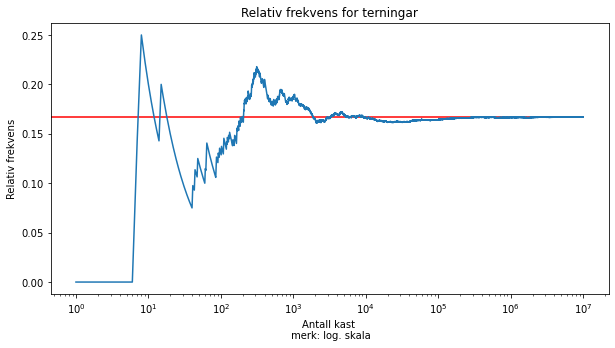
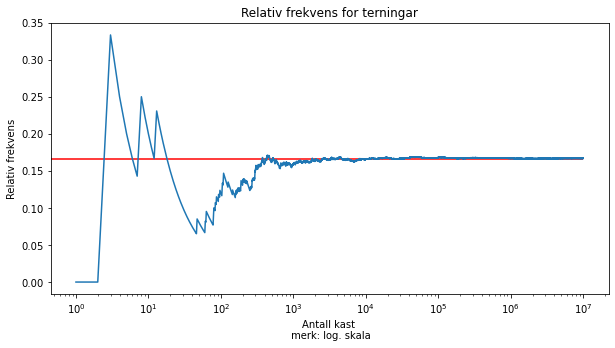
Update documentation

diff --git a/searchindex.js b/searchindex.js
@@ -1,1 +1,1 @@
-Search.setIndex({docnames:["README","S1/Kombinatorikk","S1/eksamen-V21","S1/hypergeometrisk-og-binomisk","S1/kortp\u00e5gata","S1/litenstraight","S1/oppg\u00e5ver","S1/samansettefors\u00f8k","S1/simuleringS1","S1/terningar","S1/utfordringar","S2/f\u00f8lgerogrekker","generelt/intro-importering","generelt/jupyter-lab","index"],envversion:{"sphinx.domains.c":2,"sphinx.domains.changeset":1,"sphinx.domains.citation":1,"sphinx.domains.cpp":5,"sphinx.domains.index":1,"sphinx.domains.javascript":2,"sphinx.domains.math":2,"sphinx.domains.python":3,"sphinx.domains.rst":2,"sphinx.domains.std":2,"sphinx.ext.intersphinx":1,sphinx:56},filenames:["README.md","S1/Kombinatorikk.ipynb","S1/eksamen-V21.ipynb","S1/hypergeometrisk-og-binomisk.ipynb","S1/kortp\u00e5gata.ipynb","S1/litenstraight.ipynb","S1/oppg\u00e5ver.md","S1/samansettefors\u00f8k.ipynb","S1/simuleringS1.md","S1/terningar.ipynb","S1/utfordringar.md","S2/f\u00f8lgerogrekker.ipynb","generelt/intro-importering.ipynb","generelt/jupyter-lab.md","index.md"],objects:{},objnames:{},objtypes:{},terms:{"0":[2,7,9],"000284":7,"000291":[],"000476":7,"000491":[],"000518":[],"000754":[],"023":[],"024":2,"028":[],"058":[],"061":2,"062":2,"1":[1,6,7,10,12],"10":[1,7,9],"100":7,"10000":[],"1000000":[2,7,9],"10000000":9,"10x5":9,"12":2,"120":1,"125":1,"14":9,"167":9,"187947468":7,"19":2,"2":[1,6,7,10,12],"20":[1,2],"2021":[],"2283635696":[],"24":9,"2432902008176640000":1,"3":[1,2,7,9,10,12],"3049":[],"3050":[],"3051":[],"3052":[],"3053":[],"333":9,"334":[],"3494704870":[],"36":9,"4":[2,7,9,10,12],"42":7,"444":9,"445":9,"465913":[],"466383":7,"466971":[],"467":7,"489482":[],"489524":7,"489709":[],"489772":[],"49":7,"490":7,"490147":[],"5":[1,7,9,10,12],"50":9,"6":[2,7,9,12],"60":1,"7":[7,9],"73":[],"74":[],"75":[],"76":[],"77":[],"8":9,"84":[],"85":[],"86":[],"87":[],"88":[],"9":[7,9],"90":7,"\u00e5":[1,4,7,8,9,10,12,13,14],"\u00f2g":1,"alts\u00e5":[10,12],"b\u00e5de":[1,7,12],"b\u00f8r":13,"d\u00e5":[1,7],"d\u00f8me":[2,7,9,12,14],"d\u00f8met":[7,9],"eksamensoppg\u00e5v":8,"eksamensoppg\u00e5va":2,"f\u00e5r":[1,7,13],"f\u00f8lg":13,"f\u00f8lger":14,"f\u00f8lgjand":[8,12],"f\u00f8r":[4,10],"f\u00f8rst":[7,13],"fors\u00f8k":[8,9],"fr\u00e5":[1,2,4,7,9,10,12,13,14],"g\u00e5r":[4,10],"gjennomf\u00f8r":9,"h\u00f8gare":9,"h\u00f8gre":[2,8],"import":[1,2,7,9,12],"int":7,"k\u00f8yra":7,"l\u00f8kka":7,"l\u00f8kke":2,"l\u00f8kker":[1,9],"l\u00f8ysast":2,"l\u00f8yse":[6,10],"l\u00f8ysingsforslaget":10,"l\u00f8yst":[2,8],"m\u00e5":[4,10,13],"m\u00e5l":9,"m\u00e5tar":[1,9],"m\u00e5te":7,"m\u00e5ten":[1,9],"n\u00e5r":[1,7,9,12,13],"n\u00e6rare":9,"n\u00f8dvendigvi":7,"n\u00f8yaktig":[1,7],"oppg\u00e5v":6,"oppg\u00e5va":7,"p\u00e5":[1,2,7,8,9,12,13,14],"pr\u00f8v":4,"pr\u00f8va":[8,10],"pr\u00f8vd":10,"rekkef\u00f8lgen":1,"return":[],"s\u00e5":[7,8,9],"s\u00e5kalla":12,"s\u00f8k":13,"s\u00f8ka":13,"sj\u00e5":[7,8,10,13],"sj\u00f8lv":10,"sj\u00f8lvsagt":12,"sk\u00e5l":7,"sk\u00e5la":7,"sp\u00f8rsm\u00e5l":[9,13],"st\u00f8rre":9,"t\u00e5rn":[4,10],"tilh\u00f8yrand":13,"tiln\u00e6rma":1,"to_fr\u00e5_kvar":2,"true":[1,7],"try":[],"twistsk\u00e5l":7,"twistsk\u00e5la":7,"v\u00e5r":[7,13],"v\u00e5ren":[],"var":7,"verkt\u00f8i":14,For:[7,9,13],No:7,__array_function__:[],_bounded_integ:[],_gener:[],_n:1,_r:1,_rand_int64:[],_wrapreduct:[],ab:7,abel:[4,10],abov:[],aks:9,aksen:9,aktuel:12,aktuelt:14,algoritmisk:[4,10],all:[1,2,7,13,14],aller:13,alt:13,alternativa:9,anaconda3:[],anaconda:14,anacondapakken:13,anbefalt:9,andr:1,anna:[7,14],anoth:[],antal:[1,7,9],antallet:7,approx:[7,9],arang:9,arg:[],argument:7,arrang:2,arrayen:9,artig:8,atop:[1,2],attend:7,attribut:[],attributeerror:[],aukar:7,av:[1,2,6,8,9,13,14],axi:[],b:[9,12],banan:7,banantwist:7,basert:9,bb:7,befolkningen:7,begynna:13,best:8,bestem:2,bestemt:2,bibliotek:13,biblioteka:[12,14],biblioteket:1,binom:2,binom_al:2,binom_h:2,binom_krf:2,binom_v:2,binomialkoeffesi:1,binomisk:8,bitar:7,blant:2,bli:1,blir:[2,7],blodtyp:7,boka:[8,14],book:0,boolsk:7,bruk:8,bruka:[1,2,9,12,13],brukast:[7,14],bruker:7,brukt:[0,14],c:[9,12,13],c_r:1,call:7,cdot:[1,7],cell:7,color:9,comb:1,conda:13,core:[],cumsum:9,daim:7,datamaskin:8,de:2,default_rng:[2,7,9],definera:7,deg:[4,10],dei:[1,2,9,10,12,14],del:[6,14],delt:2,den:[2,7,9,13,14],denn:[1,2,4,7,10,12,14],der:[13,14],derm:[1,12],dersom:7,dess:[2,7,9,14],det:[1,2,4,7,8,9,10,12,13,14],dett:[1,7,9,13,14],di:9,dokumentasjonen:[9,12],driv:12,droppa:7,dtype:[],du:[4,10,13,14],dure:[],eg:[9,12],ei:7,ein:[1,4,7,10,12,14],einast:7,eit:[1,2,7,8,13,14],eitt:[4,10],ek:7,eleg:7,element:[1,9],elementa:1,eller:[7,9,13],en:[9,12],enkelt:[7,8,10],enklast:[9,14],enn:2,enno:7,enter:13,er:[1,2,4,7,8,9,10,12,13,14],erna:2,etter:[7,13],etterkvart:10,exact:1,except:[],f:[1,2,7,9],factori:1,fagfornya:14,fals:7,farg:9,feil:7,feilen:7,ferdig:14,figsiz:9,figur:9,fin:[4,10],finn:[4,9,10,14],finna:[1,4,7,9,10],fint:9,firar:9,fleir:[1,7,12],folder:7,folkeparti:2,fordi:7,forg:13,forskjellen:7,forskjellig:1,forslag:10,fort:7,frac:[1,2,7,9],fram:[4,10,13],frekven:9,frekvensen:9,from:[2,7,9,12],fromnumer:[],fullstendig:[4,10],funger:8,funksjonan:12,funksjonar:[1,12],funksjonen:[2,7,9],gang:13,gansk:[7,12],gener:[7,9],getattr:[],gitt:12,gje:[9,12],gjennom:[1,9],gjer:[1,7,9],gjera:[1,7,9],gjern:4,god:[4,10],gongar:[1,9],grunnleggand:1,gunstig:9,ha:[7,12,13],halda:13,handl:[],handlar:1,har:[1,4,7,10,12,13],heil:13,heilt:1,heiltal:7,held:12,henda:13,henta:12,her:[2,7,9,10,12,13,14],hjelp:[8,9],hline:9,ho:7,hovudsak:[13,14],hypergeometr:2,hypergeometrisk:8,i:[0,1,2,4,7,8,9,10,12,13,14],igjen:[1,9],ikkj:[1,2,10,12],importer:9,importerar:7,informasjon:14,initi:[],inn:[9,13],innfallsvinkel:[4,10],innstallera:14,innstallert:13,instal:13,installasjonsretteleiaren:13,installera:13,integ:9,interessert:14,intern:[],ipykernel_85917:[],ipykernel_86106:[],ipykernel_87701:[],ipykernel_88136:[],ipykernel_88318:[],ipykernel_88379:7,jl:13,jupyt:[0,14],jupyterlab:13,kan:[1,2,7,8,9,10,13,14],kanskj:2,kapittelet:[1,8],kast:9,keepdim:[],keyboardinterrupt:7,kjem:[7,8,9,10,12,13],klar:13,knytt:8,kode:7,kodelinja:9,koden:12,komb:1,kombinasjonar:1,komma:13,komprimert:2,kontrol:[7,12],kor:[1,4,7,9,10,12],korlei:[1,2,7,8,14],kortstokk:[4,10],krf:2,kristeleg:2,kristleg:2,kumul:9,kumulativ_sum:9,kursa:14,kva:[2,7,9,10,13],kvar:[7,10,12],kvart:[1,2,7],kwarg:[],lab:14,laga:[1,7],lagar:[7,9],lager:9,lagt:14,lang:7,langt:[7,14],last:7,lasta:13,lastar:13,ldot:1,le:[1,4],left:[1,2],legga:[7,9],leng:10,lib:[],ligg:[7,12,14],lik:9,like:[1,12],likevel:12,line:7,linj:9,list:7,lite:7,litt:[1,2,7,13],log:9,logaritmisk:9,lz5rd10n0g39x7_qysj8zrrc0000gn:7,mac:13,mang:[1,4,7,10,13],matematikk:0,matematikkfaget:14,matplotlib:[9,14],matt:14,me:[1,2,7,8,9,13],med:[0,2,8,9,10,12,13,14],medlemm:2,meir:[2,7,14],mellom:[12,13,14],men:[4,7,10,12,13],meni:13,menyan:8,merk:[7,9],mest:14,method:[],mindr:[2,9],ministran:2,ministrar:2,modulen:12,mogleg:[1,12],most:7,mu:[],multipli:[],multiplikasjon:1,multivariate_hypergeometr:2,munnen:12,n:[1,2,7,9,13],namn:9,naturleg:1,navigasjonsprogrammet:13,navigera:8,navigeringa:8,nbad:2,ncr:1,ndarrai:[],ned:13,nest:14,ngood:2,nokr:[8,10],np:[9,12],npr:1,nrk:10,number:9,numpi:[2,7,9,14],nyast:13,nytta:[9,13],nyttar:[9,12],nyttig:7,obj:[],object:[],occur:[],oft:7,og:[0,2,4,7,8,10,12,14],om:[1,7,9,13,14],opna:13,opnar:13,opp:14,oppdatera:13,oppdatert:13,opt:[],ordnast:1,org:13,oss:9,out:[],over:[9,12,13],oversikt:12,oversiktleg:2,p2:10,p:[1,7,9],p_r:1,packag:[],pakken:14,panda:14,par:8,parti:2,pass:[],passkwarg:[],perm:1,permutasjonar:1,personar:7,pga:1,plass:9,plot:9,plottar:9,plt:9,populasjon:1,populasjonen:[1,2],praksi:1,praktisk:7,print:[1,2,7,9],problemet:4,prod:[],produkt:9,produktet:[1,9],program:13,programm:[1,14],programmeringa:13,programmet:[7,10],prompt:13,py:7,pylab:12,pyplot:9,python3:[],python:[1,8,14],pythonprogramm:0,pyx:[],r:1,randint:12,random:[2,7,9],rang:[1,2,7,9],rangl:12,recent:7,red:9,reduc:[],reduct:[],regjeringa:2,rekn:7,rekna:[1,4,10],rel:9,rel_frek:7,rel_frekven:9,relativ:9,replac:7,resultat:7,resultatet:9,rett:12,returnera:12,right:[1,2],rng:[2,7,9],round:[7,9],rund:10,rundt:[4,8,10],s1:[0,12],s2:[0,12],s:14,samanhengen:9,samansett:8,same:7,samm:9,samtidig:12,sannsyn:[2,8,9],sannsynet:[2,7,9,10],sannsynleg:9,sannsynsmodel:7,sc:[1,2],scipi:2,seg:[4,10],seinar:7,ser:[1,8,9],setningen:7,sett:[4,7,10],show:9,sidan:[2,7,12],side:14,simul:[4,9,10],simulera:[7,8],simuleringar:7,site:[],size:[7,9],sjekk:[2,9,12],sjekka:13,sjekkar:9,skal:[2,7,8],skala:9,skildra:13,skjer:9,skriv:[7,13],skriva:13,slutt:8,snarveg:13,som:[1,2,7,8,9,12,13,14],special:[1,2],spelekort:[4,10],spotlight:13,stade:2,start:[10,13],startar:8,starten:7,startverdi:1,statsministeren:2,stjerneimport:12,stokastisk:[8,9],stor:7,stort:1,sum:[2,9],summen:9,svar:9,svaret:7,t:7,ta:[7,10],tala:1,talet:7,teiknar:9,tenk:[4,10],teoretisk:9,termin:13,terning1:9,terning2:9,terningan:10,terningar:[8,10],test:[],text:[7,9],tid:7,tidlegar:6,tidspunkt:13,til:[2,4,7,8,9,10,12,13,14],tilbekeleg:7,tilfeldig:[2,7],tillegg:[2,14],titl:9,tittel:9,to_twist:7,traceback:7,trekk:[1,2,7],trekka:1,trekkast:1,trekt:[1,2],trene:[4,10],trill:9,trilla:[9,10],triller:9,trykk:13,tunga:12,twistan:7,twistar:7,type:14,ufunc:[],ulik:[8,9,12,14],under:14,unna:7,updat:13,ut:[1,2,7,9,13],utan:2,utfalla:7,utfallsrom:7,utfallsrommet:7,utfordr:[4,10],utfordringar:8,utval:2,utvalet:2,utvid:10,utvikl:14,v21:6,vanleg:[2,9,10],vanskeleg:[4,7,10],vare:10,variabel:7,variant:2,varianten:14,ved:[7,8,9],veit:7,veksla:12,veldig:[4,10],velga:13,venstr:[2,8],vera:[7,8],verda:[4,10],verdi:9,verdien:[7,9],vere:2,version:13,versjon:13,versjonen:13,vert:[2,14],vidar:[4,8],viktig:1,vil:[1,7,9,10,12,13],visa:9,viser:9,viss:[7,9],where:[],window:13,x:[2,9],xlabel:9,xscale:9,y:[9,13],yatzi:10,ye:13,ylabel:9,ypperleg:14,yz:7},titles:["S-matte","Kombinatorikk","V21 - oppg\u00e5ve 1, del 2","Hypergeometrisk sannsyn","Plukke kort p\u00e5 gata","Liten straight","Eksamensoppg\u00e5ver","Samansette fors\u00f8k - choice","Simulering","Terningar","Utfordringar","&lt;no title&gt;","Numpy vs Random","Anaconda-pakken og Jupyter Lab","Intro"],titleterms:{"1":[2,9],"2":[2,9],"2021":[],"eksamensoppg\u00e5v":6,"fors\u00f8k":7,"l\u00f8kke":9,"n\u00f8yaktighet":9,"oppg\u00e5v":2,"p\u00e5":[4,10],"v\u00e5ren":[],alternativ:9,anaconda:13,arrai:9,av:7,b:2,c:2,choic:7,del:2,ein:9,eksamen:[],fakultet:1,fleir:9,formel:2,gata:[4,10],hint:10,hypergeometrisk:3,ikkj:7,installasjon:13,intro:14,jupyt:13,kast:10,kombinatorikk:1,kort:[4,10],lab:13,liten:[5,10],matematikk:[],matt:0,med:[1,7],navig:13,numpi:12,ob:[2,9,14],og:[1,9,13],oppdat:13,ordna:1,pakken:13,plukk:[4,10],programvar:14,random:12,s:0,samansett:7,samfunnsfag:[],sannsyn:[3,7],sannsynsmodellar:7,scipi:1,simul:[2,7,8],straight:[5,10],teoretisk:7,tern:9,terningar:9,til:1,tilbakeleg:[1,7],tip:[7,8,9,10,13],tre:10,trekket:7,trill:10,twist:7,uniform:7,uordna:1,utan:[1,7],utfordringar:10,utfrodringar:[],utval:1,v21:2,ved:2,vs:12}})
+Search.setIndex({docnames:["README","S1/Kombinatorikk","S1/eksamen-V21","S1/hypergeometrisk-og-binomisk","S1/kortp\u00e5gata","S1/litenstraight","S1/oppg\u00e5ver","S1/samansettefors\u00f8k","S1/simuleringS1","S1/terningar","S1/utfordringar","S2/f\u00f8lgerogrekker","generelt/intro-importering","generelt/jupyter-lab","index"],envversion:{"sphinx.domains.c":2,"sphinx.domains.changeset":1,"sphinx.domains.citation":1,"sphinx.domains.cpp":5,"sphinx.domains.index":1,"sphinx.domains.javascript":2,"sphinx.domains.math":2,"sphinx.domains.python":3,"sphinx.domains.rst":2,"sphinx.domains.std":2,"sphinx.ext.intersphinx":1,sphinx:56},filenames:["README.md","S1/Kombinatorikk.ipynb","S1/eksamen-V21.ipynb","S1/hypergeometrisk-og-binomisk.ipynb","S1/kortp\u00e5gata.ipynb","S1/litenstraight.ipynb","S1/oppg\u00e5ver.md","S1/samansettefors\u00f8k.ipynb","S1/simuleringS1.md","S1/terningar.ipynb","S1/utfordringar.md","S2/f\u00f8lgerogrekker.ipynb","generelt/intro-importering.ipynb","generelt/jupyter-lab.md","index.md"],objects:{},objnames:{},objtypes:{},terms:{"0":[2,5,7,9],"000284":[],"000291":[],"000357":7,"000476":[],"000491":[],"000518":[],"000754":[],"023":[],"024":2,"028":[],"05":7,"058":[],"06":5,"061":2,"062":[],"1":[1,5,6,7,10,12],"10":[1,7,9],"100":7,"10000":[],"100000":5,"1000000":[2,7,9],"10000000":9,"10x5":9,"12":2,"120":1,"125":1,"14":9,"167":9,"187947468":[],"19":2,"1e":7,"2":[1,5,6,7,10,12],"20":[1,2],"2021":[],"2283635696":[],"24":9,"2432902008176640000":1,"3":[1,2,5,7,9,10,12],"30":5,"3049":[],"3050":[],"3051":[],"3052":[],"3053":[],"333":9,"334":[],"3494704870":[],"36":9,"4":[2,9,10,12],"42":7,"444":9,"445":[],"465913":[],"46631":7,"466383":[],"466971":[],"467":7,"489482":[],"489524":[],"489709":[],"489772":[],"489919":7,"489951":7,"49":7,"490":7,"490147":[],"5":[1,5,9,10,12],"50":9,"6":[2,5,7,9,10,12],"60":1,"7":[5,7,9],"73":[],"74":[],"75":[],"76":[],"77":[],"8":[7,9],"84":[],"85":[],"86":[],"87":[],"88":[],"9":[7,9],"90":7,"\u00e5":[1,4,5,7,8,9,10,12,13,14],"\u00f2g":1,"alts\u00e5":[10,12],"b\u00e5de":[1,5,7,12],"b\u00f8r":13,"d\u00e5":[1,7],"d\u00f8me":[2,7,9,12,14],"d\u00f8met":[7,9],"eksamensoppg\u00e5v":8,"eksamensoppg\u00e5va":2,"f\u00e5r":[1,7,13],"f\u00f8lg":13,"f\u00f8lger":14,"f\u00f8lgjand":[8,12],"f\u00f8r":[4,10],"f\u00f8rst":[7,13],"f\u00f8rste":10,"fors\u00f8k":[8,9],"fr\u00e5":[1,2,4,7,9,10,12,13,14],"g\u00e5r":[4,10],"gjennomf\u00f8r":9,"h\u00f8gare":9,"h\u00f8gre":[2,8],"import":[1,2,5,7,9,12],"int":7,"k\u00f8yra":7,"l\u00f8kka":7,"l\u00f8kke":2,"l\u00f8kker":[1,9],"l\u00f8ysast":2,"l\u00f8yse":[6,10],"l\u00f8ysingsforslaget":10,"l\u00f8yst":[2,8],"m\u00e5":[4,10,13],"m\u00e5l":9,"m\u00e5tar":[1,9],"m\u00e5te":7,"m\u00e5ten":[1,9],"n\u00e5r":[1,7,9,12,13],"n\u00e6rare":9,"n\u00f8dvendigvi":7,"n\u00f8yaktig":[1,7],"oppg\u00e5v":6,"oppg\u00e5va":7,"p\u00e5":[1,2,5,7,8,9,12,13,14],"pr\u00f8v":4,"pr\u00f8va":[8,10],"pr\u00f8vd":10,"rekkef\u00f8lgen":1,"return":5,"s\u00e5":[7,8,9],"s\u00e5kalla":12,"s\u00f8k":13,"s\u00f8ka":13,"sj\u00e5":[7,8,10,13],"sj\u00f8lv":10,"sj\u00f8lve":5,"sj\u00f8lvsagt":12,"sk\u00e5l":7,"sk\u00e5la":7,"sp\u00f8rsm\u00e5l":[9,13],"st\u00f8rre":9,"t\u00e5rn":4,"tilh\u00f8yrand":13,"tiln\u00e6rma":1,"to_fr\u00e5_kvar":2,"true":[1,7],"try":[],"twistsk\u00e5l":7,"twistsk\u00e5la":7,"v\u00e5r":[7,13],"v\u00e5ren":[],"var":[],"verkt\u00f8i":14,For:[7,9,13],No:7,__array_function__:[],_bounded_integ:[],_gener:[],_n:1,_r:1,_rand_int64:[],_wrapreduct:[],ab:7,abel:4,abov:[],aks:9,aksen:9,aktuel:12,aktuelt:14,algoritmisk:[4,10],all:[1,2,7,13,14],aller:13,alt:13,alternativa:9,anaconda3:[],anaconda:14,anacondapakken:13,anbefalt:9,andr:1,anna:[7,14],anoth:[],antal:[1,5,7,9],antallet:7,append:5,approx:[7,9],arang:9,arg:[],argument:7,arrang:2,arrayen:9,artig:8,atop:[1,2],att:10,attend:7,attribut:[],attributeerror:[],aukar:7,av:[1,2,6,8,9,13,14],axi:[],b:[9,12],banan:7,banantwist:7,basert:9,bb:7,befolkningen:7,begynna:13,best:8,bestem:2,bestemt:2,bibliotek:13,biblioteka:[12,14],biblioteket:1,binom:2,binom_al:2,binom_h:2,binom_krf:2,binom_v:2,binomialkoeffesi:1,binomisk:8,bitar:7,blant:2,bli:1,blir:[2,7],blodtyp:7,boka:[8,14],book:0,boolsk:7,bruk:8,bruka:[1,2,9,12,13],brukast:[7,14],bruker:7,brukt:[0,14],bygg:5,c:[9,12,13],c_r:1,call:[],cdot:[1,7],cell:[],color:9,comb:1,conda:13,core:[],cumsum:9,daim:7,datamaskin:8,de:2,def:5,default_rng:[2,5,7,9],definera:7,deg:[4,10],dei:[1,2,5,9,10,12,14],del:[6,14],delt:2,den:[2,7,9,13,14],denn:[1,2,4,7,10,12,14],der:[13,14],derm:[1,12],dersom:7,dess:[2,7,9,14],det:[1,2,4,5,7,8,9,10,12,13,14],dett:[1,7,9,13,14],di:9,dokumentasjonen:[9,12],driv:12,droppa:7,dtype:[],du:[4,10,13,14],dure:[],eg:[9,12],ei:7,ein:[1,4,7,10,12,14],einast:7,eit:[1,2,7,8,13,14],eitt:[4,10],ek:7,eleg:7,element:[1,9],elementa:1,eller:[7,9,13],en:[9,12],enkelt:[5,7,8,10],enklast:[9,14],enn:2,enno:7,enter:13,er:[1,2,4,5,7,8,9,10,12,13,14],erna:2,etter:[5,7,13],etterkvart:10,exact:1,except:[],f:[1,2,5,7,9],factori:1,fagfornya:14,fals:[5,7],farg:9,feil:7,feilen:7,ferdig:14,figsiz:9,figur:9,fin:[4,10],finn:[4,9,10,14],finna:[1,4,7,9,10],fint:9,firar:9,fleir:[1,7,12],folder:[],folkeparti:2,fordi:7,forg:13,forskjellen:7,forskjellig:1,forslag:10,fort:7,frac:[1,2,7,9],fram:[4,10,13],frekven:9,frekvensen:9,from:[2,5,7,9,12],fromnumer:[],full:5,fullstendig:[4,10],funger:8,funksjonan:12,funksjonar:[1,12],funksjonen:[2,7,9],gang:[10,13],gansk:[7,12],gener:[7,9],getattr:[],gitt:12,gje:[9,12],gjennom:[1,9],gjenta:5,gjer:[1,7,9],gjera:[1,7,9],gjern:4,god:[4,10],gongar:[1,5,9],grunnleggand:1,gunstig:9,ha:[7,12,13],halda:13,handl:[],handlar:1,har:[1,4,7,10,12,13],heil:13,heilt:1,heiltal:7,held:12,henda:13,henta:12,her:[2,7,9,10,12,13,14],hjelp:[8,9],hline:9,ho:7,hovudsak:[13,14],hypergeometr:2,hypergeometrisk:8,i:[0,1,2,4,5,7,8,9,10,12,13,14],igjen:[1,9],ikkj:[1,2,10,12],importer:9,importerar:7,informasjon:14,initi:[],inn:[9,13],innfallsvinkel:[4,10],innstallera:14,innstallert:13,instal:13,installasjonsretteleiaren:13,installera:13,integ:[5,9],interessert:14,intern:[],ipykernel_85917:[],ipykernel_86106:[],ipykernel_87701:[],ipykernel_88136:[],ipykernel_88318:[],ipykernel_88379:[],jl:13,jupyt:[0,14],jupyterlab:13,kan:[1,2,7,8,9,10,13,14],kanskj:2,kapittelet:[1,8],kast:[5,9],keepdim:[],keyboardinterrupt:[],kjem:[7,8,9,10,12,13],klar:13,knytt:8,kode:7,kodelinja:9,koden:12,komb:1,kombinasjonar:1,komma:13,komprimert:2,kontrol:[7,12],kor:[1,4,7,9,10,12],korlei:[1,2,7,8,14],kortstokk:[4,10],krf:2,kristeleg:2,kristleg:2,kumul:9,kumulativ_sum:9,kursa:14,kva:[2,7,9,10,13],kvar:[7,10,12],kvart:[1,2,5,7],kwarg:[],lab:14,laga:[1,7],lagar:[7,9],lager:9,lagt:14,lang:7,langt:[7,14],last:[],lasta:13,lastar:13,ldot:1,le:[1,4],left:[1,2],legga:[7,9],len:5,leng:10,lib:[],ligg:[7,12,14],lik:9,like:[1,12],likevel:12,line:[],linj:9,list:7,lite:7,liten_straight:5,litt:[1,2,7,13],log:9,logaritmisk:9,ls:5,lufta:10,lz5rd10n0g39x7_qysj8zrrc0000gn:[],mac:13,mang:[1,4,5,7,10,13],matematikk:0,matematikkfaget:14,matplotlib:[9,14],matt:14,maxi:10,me:[1,2,7,8,9,13],med:[0,2,8,9,10,12,13,14],medlemm:2,meir:[2,7,14],mellom:[12,13,14],men:[4,7,10,12,13],meni:13,menyan:8,merk:[7,9],mest:14,method:[],mindr:[2,9],ministran:2,ministrar:2,modulen:12,mogleg:[1,12],most:[],mu:[],multipli:[],multiplikasjon:1,multivariate_hypergeometr:2,munnen:12,n:[1,2,5,7,9,13],namn:9,naturleg:1,navigasjonsprogrammet:13,navigera:8,navigeringa:8,nbad:2,ncr:1,ndarrai:[],ned:13,nest:14,ngood:2,nokr:[8,10],np:[5,9,12],npr:1,nrk:[],number:9,numpi:[2,5,7,9,14],nyast:13,nytt:5,nytta:[9,13],nyttar:[9,12],nyttig:7,obj:[],object:[],occur:[],oft:7,og:[0,2,4,5,7,8,10,12,14],ok:5,om:[1,5,7,9,13,14],opna:13,opnar:13,opp:[10,14],oppdatera:13,oppdatert:13,opt:[],ordnast:1,org:13,oss:9,out:[],over:[9,12,13],oversikt:12,oversiktleg:2,p2:[],p:[1,7,9],p_r:1,packag:[],pakken:14,panda:14,par:8,parti:2,pass:[],passkwarg:[],perm:1,permutasjonar:1,personar:7,pga:1,plass:9,plot:9,plottar:9,plt:9,populasjon:1,populasjonen:[1,2],praksi:1,praktisk:7,print:[1,2,5,7,9],problemet:[4,10],prod:[],produkt:9,produktet:[1,9],program:13,programm:[1,14],programmeringa:13,programmet:[5,7,10],prompt:13,py:[],pylab:12,pyplot:9,python3:[],python:[1,8,14],pythonprogramm:0,pyx:[],r:1,randint:12,random:[2,5,7,9],rang:[1,2,5,7,9],rangl:12,recent:[],red:9,reduc:[],reduct:[],regjeringa:2,rekn:7,rekna:[1,4,10],rel:9,rel_frek:7,rel_frekven:9,relativ:9,replac:7,resten:5,resultat:7,resultatet:9,rett:12,returnera:12,right:[1,2],rng:[2,5,7,9],round:[7,9],rund:10,rundar:5,rundt:[4,8,10],s1:[0,12],s2:[0,12],s:14,samanhengen:9,samansett:8,same:7,samm:9,samtidig:12,sannsyn:[2,8,9],sannsynet:[2,7,9,10],sannsynleg:9,sannsynlighet:5,sannsynsmodel:7,sc:[1,2],scipi:2,seg:[4,10],seinar:7,ser:[1,8,9],setningen:7,sett:[4,7,10],show:9,sidan:[2,7,12],side:14,simul:[4,5,9,10],simulera:[7,8],simuleringa:5,simuleringar:7,site:[],size:[5,7,9],sjekk:[2,5,9,12],sjekk_l:5,sjekka:13,sjekkar:9,skal:[2,7,8],skala:9,skildra:13,skjer:9,skriv:[7,13],skriva:13,slutt:8,snarveg:13,som:[1,2,5,7,8,9,12,13,14],special:[1,2],spelekort:[4,10],spotlight:13,stade:2,start:[5,10,13],startar:8,starten:7,startverdi:1,statsministeren:2,stjerneimport:12,stokastisk:[8,9],stor:[5,7],stort:1,suksess:5,sum:[2,9],summen:9,svar:9,svaret:7,t:[],ta:[5,7,10],tala:1,talet:7,tatt:10,teiknar:9,tenk:[4,10],teoretisk:9,termin:13,tern:5,terning1:9,terning2:9,terning:5,terningan:10,terningar:[5,8,10],test:[],text:[7,9],tid:7,tidlegar:6,tidspunkt:13,til:[2,4,7,8,9,10,12,13,14],tilbekeleg:7,tilfeldig:[2,7],tillegg:[2,14],titl:9,tittel:9,to_twist:7,traceback:[],tre:5,trekk:[1,2,7],trekka:1,trekkast:1,trekt:[1,2],trene:[4,10],trill:[5,9],trilla:[9,10],triller:[5,9],trykk:13,tunga:12,twistan:7,twistar:7,type:14,ufunc:[],ulik:[5,8,9,12,14],under:14,uniqu:5,unna:7,updat:13,ut:[1,2,5,7,9,13],utan:2,utfalla:7,utfallsrom:7,utfallsrommet:7,utfordr:4,utfordringar:8,utval:2,utvalet:2,utvid:10,utvikl:14,v21:6,vanleg:[2,9],vanskeleg:[4,7,10],vare:[5,10],variabel:7,variant:2,varianten:14,ved:[7,8,9],veit:7,veksla:12,veldig:[4,10],velga:13,venstr:[2,8],vera:[7,8],verda:[4,10],verdi:9,verdien:[7,9],vere:2,version:13,versjon:13,versjonen:13,vert:[2,10,14],vidar:[4,8],viktig:1,vil:[1,7,9,10,12,13],visa:9,viser:9,viss:[7,9],where:[],window:13,x:[2,9],xlabel:9,xscale:9,y:[9,13],yatzi:10,ye:13,ylabel:9,ypperleg:14,yz:[]},titles:["S-matte","Kombinatorikk","V21 - oppg\u00e5ve 1, del 2","Hypergeometrisk sannsyn","Plukke kort p\u00e5 gata","Liten straight","Eksamensoppg\u00e5ver","Samansette fors\u00f8k - choice","Simulering","Terningar","Utfordringar","&lt;no title&gt;","Numpy vs Random","Anaconda-pakken og Jupyter Lab","Intro"],titleterms:{"1":[2,9],"2":[2,9],"2021":[],"eksamensoppg\u00e5v":6,"fors\u00f8k":7,"l\u00f8kke":9,"n\u00f8yaktighet":9,"oppg\u00e5v":2,"p\u00e5":[4,10],"t\u00e5rn":10,"v\u00e5ren":[],abel:10,alternativ:9,anaconda:13,arrai:9,av:7,b:2,c:2,choic:7,del:2,ein:9,eksamen:[],fakultet:1,fleir:9,formel:2,gata:[4,10],hint:[5,10],hypergeometrisk:3,ikkj:7,installasjon:13,intro:14,jupyt:13,kast:10,kombinatorikk:1,kort:[4,10],lab:13,liten:[5,10],matematikk:[],matt:0,med:[1,7],navig:13,numpi:12,ob:[2,9,14],og:[1,9,13],oppdat:13,ordna:1,pakken:13,plukk:[4,10],programvar:14,random:12,s:0,samansett:7,samfunnsfag:[],sannsyn:[3,7],sannsynsmodellar:7,scipi:1,simul:[2,7,8],straight:[5,10],teoretisk:7,tern:9,terningar:9,til:1,tilbakeleg:[1,7],tip:[7,8,9,10,13],tre:10,trekket:7,trill:10,twist:7,uniform:7,uordna:1,utan:[1,7],utfordringar:10,utfrodringar:[],utval:1,v21:2,ved:2,vs:12}})

diff --git a/S1/litenstraight.html b/S1/litenstraight.html
@@ -249,6 +249,35 @@ title="Toggle navigation"
         
     </div>
     <div class="header-article__right">
+<div class="menu-dropdown menu-dropdown-launch-buttons">
+  <button class="headerbtn menu-dropdown__trigger"
+      aria-label="Launch interactive content">
+      <i class="fas fa-rocket"></i>
+  </button>
+  <div class="menu-dropdown__content">
+    <ul>
+      <li>
+        <a href="https://mybinder.org/v2/gh/lektorodd/S-matte/main?urlpath=tree/S1/litenstraight.ipynb"
+   class="headerbtn"
+   data-toggle="tooltip"
+data-placement="left"
+title="Launch on Binder"
+>
+  
+
+<span class="headerbtn__icon-container">
+  
+    <img src="../_static/images/logo_binder.svg">
+  </span>
+<span class="headerbtn__text-container">Binder</span>
+</a>
+
+      </li>
+      
+    </ul>
+  </div>
+</div>
+
 <button onclick="toggleFullScreen()"
   class="headerbtn"
   data-toggle="tooltip"
@@ -379,6 +408,63 @@ title="Print to PDF"
                 
   <div class="tex2jax_ignore mathjax_ignore section" id="liten-straight">
 <h1>Liten straight<a class="headerlink" href="#liten-straight" title="Permalink to this headline">#</a></h1>
+<div class="tip dropdown admonition">
+<p class="admonition-title">Hint</p>
+<p>Start enkelt og bygg ut programmet etter kvart.</p>
+<ul class="simple">
+<li><p>trille terning</p></li>
+<li><p>trille tre terningar</p></li>
+<li><p>ta vare på dei som er ulike, trille resten på nytt - tre rundar</p></li>
+<li><p>gjenta mange gongar (simulering)</p></li>
+</ul>
+</div>
+<div class="cell docutils container">
+<div class="cell_input docutils container">
+<div class="highlight-ipython3 notranslate"><div class="highlight"><pre><span></span><span class="kn">import</span> <span class="nn">numpy</span> <span class="k">as</span> <span class="nn">np</span>
+<span class="kn">from</span> <span class="nn">numpy.random</span> <span class="kn">import</span> <span class="n">default_rng</span>
+<span class="n">rng</span> <span class="o">=</span> <span class="n">default_rng</span><span class="p">()</span>
+
+<span class="c1"># trille antall terninger </span>
+<span class="k">def</span> <span class="nf">trille</span><span class="p">(</span><span class="n">antall</span><span class="p">):</span>
+    <span class="k">return</span> <span class="n">rng</span><span class="o">.</span><span class="n">integers</span><span class="p">(</span><span class="mi">1</span><span class="p">,</span> <span class="mi">7</span><span class="p">,</span> <span class="n">size</span> <span class="o">=</span> <span class="n">antall</span><span class="p">)</span>
+
+<span class="c1"># Sjekke om ls. (både liten, stor og full straight er ok</span>
+<span class="k">def</span> <span class="nf">sjekk_ls</span><span class="p">(</span><span class="n">terningar</span><span class="p">):</span>
+    <span class="k">return</span> <span class="p">((</span><span class="nb">len</span><span class="p">(</span><span class="n">terningar</span><span class="p">)</span><span class="o">==</span><span class="mi">5</span> <span class="ow">and</span> <span class="n">terningar</span><span class="p">[</span><span class="mi">0</span><span class="p">]</span> <span class="o">==</span> <span class="mi">1</span> <span class="ow">and</span> <span class="n">terningar</span><span class="p">[</span><span class="o">-</span><span class="mi">1</span><span class="p">]</span> <span class="o">==</span> <span class="mi">5</span><span class="p">)</span> 
+            <span class="ow">or</span> <span class="p">(</span><span class="nb">len</span><span class="p">(</span><span class="n">terningar</span><span class="p">)</span><span class="o">==</span><span class="mi">6</span> <span class="ow">and</span> <span class="n">terningar</span><span class="p">[</span><span class="mi">0</span><span class="p">]</span> <span class="o">==</span> <span class="mi">1</span> <span class="ow">and</span> <span class="n">terningar</span><span class="p">[</span><span class="o">-</span><span class="mi">1</span><span class="p">]</span> <span class="o">==</span> <span class="mi">6</span><span class="p">))</span>
+
+<span class="c1"># triller etter liten straight på 3 kast</span>
+<span class="k">def</span> <span class="nf">liten_straight</span><span class="p">():</span>
+    <span class="n">ls</span> <span class="o">=</span> <span class="kc">False</span>
+
+    <span class="n">kast</span> <span class="o">=</span> <span class="n">trille</span><span class="p">(</span><span class="mi">6</span><span class="p">)</span>
+
+    <span class="k">for</span> <span class="n">i</span> <span class="ow">in</span> <span class="nb">range</span><span class="p">(</span><span class="mi">2</span><span class="p">):</span>
+        <span class="n">kast</span> <span class="o">=</span> <span class="n">np</span><span class="o">.</span><span class="n">unique</span><span class="p">(</span><span class="n">kast</span><span class="p">)</span>
+        <span class="n">kast</span> <span class="o">=</span> <span class="n">np</span><span class="o">.</span><span class="n">append</span><span class="p">(</span><span class="n">kast</span><span class="p">,</span> <span class="n">trille</span><span class="p">(</span><span class="mi">6</span> <span class="o">-</span> <span class="nb">len</span><span class="p">(</span><span class="n">kast</span><span class="p">)))</span>
+
+    <span class="n">kast</span> <span class="o">=</span> <span class="n">np</span><span class="o">.</span><span class="n">unique</span><span class="p">(</span><span class="n">kast</span><span class="p">)</span>
+
+    <span class="k">return</span> <span class="n">sjekk_ls</span><span class="p">(</span><span class="n">kast</span><span class="p">)</span>
+
+<span class="c1"># Sjølve simuleringa</span>
+<span class="n">suksess</span> <span class="o">=</span> <span class="mi">0</span>
+<span class="n">N</span> <span class="o">=</span> <span class="mi">100000</span>
+
+<span class="k">for</span> <span class="n">i</span> <span class="ow">in</span> <span class="nb">range</span><span class="p">(</span><span class="n">N</span><span class="p">):</span>
+    <span class="k">if</span> <span class="n">liten_straight</span><span class="p">():</span>
+        <span class="n">suksess</span> <span class="o">+=</span> <span class="mi">1</span>
+
+<span class="nb">print</span><span class="p">(</span><span class="sa">f</span><span class="s2">&quot;Det er </span><span class="si">{</span><span class="n">suksess</span><span class="o">/</span><span class="n">N</span><span class="si">:</span><span class="s2">.2%</span><span class="si">}</span><span class="s2"> sannsynlighet for å trill liten straight på 3 kast&quot;</span><span class="p">)</span>
+</pre></div>
+</div>
+</div>
+<div class="cell_output docutils container">
+<div class="output stream highlight-myst-ansi notranslate"><div class="highlight"><pre><span></span>Det er 30.06% sannsynlighet for å trill liten straight på 3 kast
+</pre></div>
+</div>
+</div>
+</div>
 </div>
 
     <script type="text/x-thebe-config">

diff --git a/S1/samansetteforsøk.html b/S1/samansetteforsøk.html
@@ -548,16 +548,7 @@ title="Print to PDF"
 </div>
 </div>
 <div class="cell_output docutils container">
-<div class="output traceback highlight-ipythontb notranslate"><div class="highlight"><pre><span></span><span class="gt">---------------------------------------------------------------------------</span>
-<span class="ne">KeyboardInterrupt</span><span class="g g-Whitespace">                         </span>Traceback (most recent call last)
-<span class="nn">/var/folders/yz/lz5rd10n0g39x7_qysj8zrrc0000gn/T/ipykernel_88379/187947468.py</span> in <span class="ni">&lt;cell line: 3&gt;</span><span class="nt">()</span>
-<span class="g g-Whitespace">      </span><span class="mi">2</span> 
-<span class="g g-Whitespace">      </span><span class="mi">3</span> <span class="k">for</span> <span class="n">i</span> <span class="ow">in</span> <span class="nb">range</span><span class="p">(</span><span class="n">N</span><span class="p">):</span>
-<span class="ne">----&gt; </span><span class="mi">4</span>     <span class="n">twist</span> <span class="o">=</span> <span class="n">rng</span><span class="o">.</span><span class="n">choice</span><span class="p">(</span><span class="n">twistskål</span><span class="p">,</span> <span class="n">size</span> <span class="o">=</span> <span class="mi">2</span><span class="p">)</span>
-<span class="g g-Whitespace">      </span><span class="mi">5</span>     <span class="k">if</span> <span class="n">twist</span><span class="p">[</span><span class="mi">0</span><span class="p">]</span> <span class="o">==</span> <span class="s2">&quot;Banan&quot;</span> <span class="ow">and</span> <span class="n">twist</span><span class="p">[</span><span class="mi">1</span><span class="p">]</span> <span class="o">==</span> <span class="s2">&quot;Banan&quot;</span><span class="p">:</span>
-<span class="g g-Whitespace">      </span><span class="mi">6</span>         <span class="n">BB</span> <span class="o">+=</span> <span class="mi">1</span>
-
-<span class="ne">KeyboardInterrupt</span>: 
+<div class="output stream highlight-myst-ansi notranslate"><div class="highlight"><pre><span></span>Sannsynet for at me trekk to banantwist er 0.489951
 </pre></div>
 </div>
 </div>
@@ -582,7 +573,7 @@ Dette kan me gjera ved å gjera ein boolsk variabel (<code class="docutils liter
 </div>
 </div>
 <div class="cell_output docutils container">
-<div class="output stream highlight-myst-ansi notranslate"><div class="highlight"><pre><span></span>Sannsynet for at me trekk to banantwist er 0.489524
+<div class="output stream highlight-myst-ansi notranslate"><div class="highlight"><pre><span></span>Sannsynet for at me trekk to banantwist er 0.489919
 </pre></div>
 </div>
 </div>
@@ -596,7 +587,7 @@ Dette kan me gjera ved å gjera ein boolsk variabel (<code class="docutils liter
 </div>
 </div>
 <div class="cell_output docutils container">
-<div class="output stream highlight-myst-ansi notranslate"><div class="highlight"><pre><span></span>Feilen blir 0.000476 når me gjer 1000000 simuleringar
+<div class="output stream highlight-myst-ansi notranslate"><div class="highlight"><pre><span></span>Feilen blir 8.1e-05 når me gjer 1000000 simuleringar
 </pre></div>
 </div>
 </div>
@@ -622,7 +613,7 @@ Dette kan me gjera ved å gjera ein boolsk variabel (<code class="docutils liter
 </div>
 </div>
 <div class="cell_output docutils container">
-<div class="output stream highlight-myst-ansi notranslate"><div class="highlight"><pre><span></span>Sannsynet for at me trekk to banantwist er 0.466383
+<div class="output stream highlight-myst-ansi notranslate"><div class="highlight"><pre><span></span>Sannsynet for at me trekk to banantwist er 0.46631
 </pre></div>
 </div>
 </div>
@@ -635,7 +626,7 @@ Dette kan me gjera ved å gjera ein boolsk variabel (<code class="docutils liter
 </div>
 </div>
 <div class="cell_output docutils container">
-<div class="output stream highlight-myst-ansi notranslate"><div class="highlight"><pre><span></span>Feilen blir 0.000284 når me gjer 1000000 simuleringar
+<div class="output stream highlight-myst-ansi notranslate"><div class="highlight"><pre><span></span>Feilen blir 0.000357 når me gjer 1000000 simuleringar
 </pre></div>
 </div>
 </div>
@@ -658,7 +649,7 @@ Dette kan me gjera ved å gjera ein boolsk variabel (<code class="docutils liter
 </div>
 </div>
 <div class="cell_output docutils container">
-<div class="output stream highlight-myst-ansi notranslate"><div class="highlight"><pre><span></span>Me trekk [&#39;Banan&#39; &#39;Daim&#39;]
+<div class="output stream highlight-myst-ansi notranslate"><div class="highlight"><pre><span></span>Me trekk [&#39;Banan&#39; &#39;Banan&#39;]
 </pre></div>
 </div>
 </div>

diff --git a/S1/utfordringar.html b/S1/utfordringar.html
@@ -433,7 +433,13 @@ title="Print to PDF"
 </div>
 <div class="section" id="plukke-kort-pa-gata">
 <h2>Plukke kort på gata<a class="headerlink" href="#plukke-kort-pa-gata" title="Permalink to this headline">#</a></h2>
-<p>Utfordring frå Abels tårn på NRK P2.</p>
+<div class="margin sidebar">
+<p class="sidebar-title"></p>
+<div class="note admonition">
+<p class="admonition-title">Abels tårn</p>
+<p>Problemet vert lufta <a class="reference external" href="https://radio.nrk.no/podkast/abels_taarn/sesong/202106/l_f5197a9a-8a66-4e4e-997a-9a8a669e4e85">her</a> første gang og tatt opp att <a class="reference external" href="https://radio.nrk.no/podkast/abels_taarn/sesong/202107/l_fcf052d9-977d-400a-b052-d9977df00af5">her</a></p>
+</div>
+</div>
 <p>Sett at du går rundt i verda og finn eitt og eitt spelekort på gata. Kor mange kort må du finna før du har ein fullstendig kortstokk?</p>
 <div class="tip admonition">
 <p class="admonition-title">Tips</p>
@@ -443,7 +449,7 @@ title="Print to PDF"
 </div>
 <div class="section" id="trille-liten-straight-pa-tre-kast">
 <h2>Trille liten straight på tre kast<a class="headerlink" href="#trille-liten-straight-pa-tre-kast" title="Permalink to this headline">#</a></h2>
-<p>Kva er sannsynet for å trilla liten straight (1, 2, 3, 4, 5) på ein runde i vanleg Yatzy, altså med 5 terningar?
+<p>Kva er sannsynet for å trilla liten straight (1, 2, 3, 4, 5) på ein runde i Maxi Yatzy, altså med 6 terningar?
 Det er tre kast kvar runde og du kan ta vare på dei terningane du vil frå kast til kast.</p>
 <div class="tip admonition">
 <p class="admonition-title">Hint</p>

diff --git a/S1/terningar.html b/S1/terningar.html
@@ -540,7 +540,7 @@ title="Print to PDF"
 </div>
 </div>
 <div class="cell_output docutils container">
-<div class="output stream highlight-myst-ansi notranslate"><div class="highlight"><pre><span></span>1
+<div class="output stream highlight-myst-ansi notranslate"><div class="highlight"><pre><span></span>5
 </pre></div>
 </div>
 </div>
@@ -554,16 +554,16 @@ title="Print to PDF"
 </div>
 </div>
 <div class="cell_output docutils container">
-<div class="output stream highlight-myst-ansi notranslate"><div class="highlight"><pre><span></span>3
-1
+<div class="output stream highlight-myst-ansi notranslate"><div class="highlight"><pre><span></span>2
+6
+2
+5
+3
 2
 4
 3
 4
 5
-5
-5
-4
 </pre></div>
 </div>
 </div>
@@ -577,7 +577,7 @@ title="Print to PDF"
 </div>
 </div>
 <div class="cell_output docutils container">
-<div class="output stream highlight-myst-ansi notranslate"><div class="highlight"><pre><span></span>[6 4 6 3 5 6 2 4 6 2]
+<div class="output stream highlight-myst-ansi notranslate"><div class="highlight"><pre><span></span>[4 4 1 4 6 5 3 6 5 3]
 </pre></div>
 </div>
 </div>
@@ -659,7 +659,7 @@ title="Print to PDF"
 </div>
 </div>
 <div class="cell_output docutils container">
-<div class="output stream highlight-myst-ansi notranslate"><div class="highlight"><pre><span></span>Sannsynet for at produktet av to terningar er 8 eller mindre er 0.445
+<div class="output stream highlight-myst-ansi notranslate"><div class="highlight"><pre><span></span>Sannsynet for at produktet av to terningar er 8 eller mindre er 0.444
 </pre></div>
 </div>
 </div>

diff --git a/S1/eksamen-V21.html b/S1/eksamen-V21.html
@@ -640,7 +640,7 @@ title="Print to PDF"
 </div>
 </div>
 <div class="cell_output docutils container">
-<div class="output stream highlight-myst-ansi notranslate"><div class="highlight"><pre><span></span>Sannsynet for at det vert trekt to frå kvart parti er 0.062
+<div class="output stream highlight-myst-ansi notranslate"><div class="highlight"><pre><span></span>Sannsynet for at det vert trekt to frå kvart parti er 0.061
 </pre></div>
 </div>
 </div>

diff --git a/_sources/S1/utfordringar.md b/_sources/S1/utfordringar.md
@@ -11,7 +11,13 @@ Ikkje sjå på løysingsforslaget før du har prøvd lenge sjølv. Det er god tr
 
 ## Plukke kort på gata
 
-Utfordring frå Abels tårn på NRK P2. 
+````{margin} 
+```{admonition} Abels tårn
+:class: note
+
+Problemet vert lufta [her](https://radio.nrk.no/podkast/abels_taarn/sesong/202106/l_f5197a9a-8a66-4e4e-997a-9a8a669e4e85) første gang og tatt opp att [her](https://radio.nrk.no/podkast/abels_taarn/sesong/202107/l_fcf052d9-977d-400a-b052-d9977df00af5)
+```
+````
 
 Sett at du går rundt i verda og finn eitt og eitt spelekort på gata. Kor mange kort må du finna før du har ein fullstendig kortstokk? 
 
@@ -25,7 +31,7 @@ Forslag til løysing finn du [her](../S1/kortp%C3%A5gata.ipynb)
 
 ## Trille liten straight på tre kast
 
-Kva er sannsynet for å trilla liten straight (1, 2, 3, 4, 5) på ein runde i vanleg Yatzy, altså med 5 terningar? 
+Kva er sannsynet for å trilla liten straight (1, 2, 3, 4, 5) på ein runde i Maxi Yatzy, altså med 6 terningar? 
 Det er tre kast kvar runde og du kan ta vare på dei terningane du vil frå kast til kast. 
 
 ```{admonition} Hint
